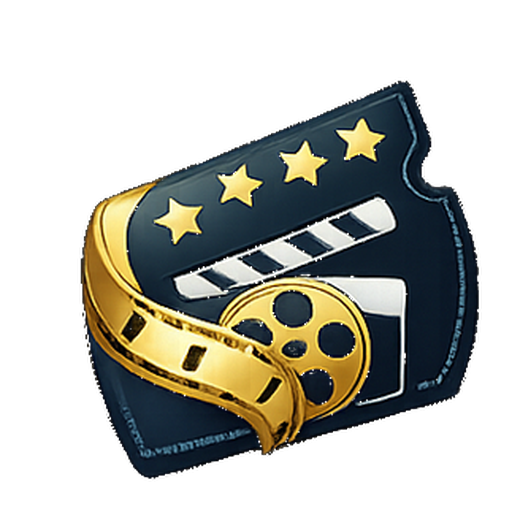
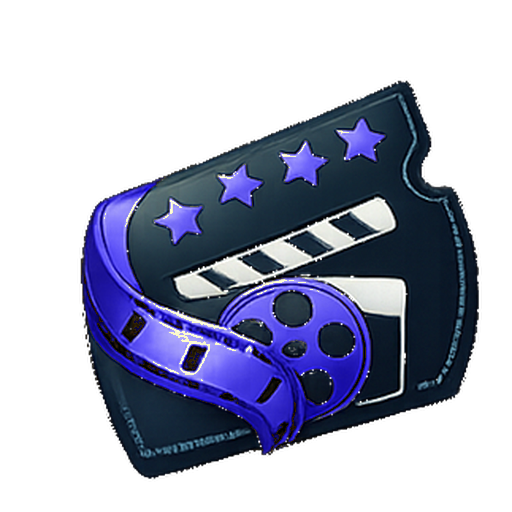
Finalized css styling

diff --git a/public/css/style.css b/public/css/style.css
@@ -1,13 +1,19 @@
-* {
+@import url("https://fonts.googleapis.com/css2?family=Inter:wght@400;500;600;700&family=Oswald:wght@500;600;700&display=swap");
+
+* {
     box-sizing: border-box;
 }
 
 body {
     margin: 0;
     min-height: 100vh;
-    font-family: cursive;
+    font-family: "Inter", cursive;
     color: rgb(243, 244, 246);
-    background-color: rgb(31, 41, 55);
+    background-color: rgb(17, 24, 39);
+}
+
+h1, h2 {
+    font-family: "Oswald", cursive;
 }
 
 /* Shared Nav Style */
@@ -17,8 +23,8 @@ body {
     align-items: center;
     justify-content: space-between;
     gap: 24px;
-    background-color: rgb(31, 41, 55);
-    border-bottom: 1px solid rgb(41, 51, 65);
+    background-color: rgb(24, 34, 50);
+    border-bottom: 1px solid rgb(45, 55, 72);
 }
 
 .site-nav-brand {
@@ -41,9 +47,11 @@ body {
 }
 
 .cine-text {
-    background: linear-gradient(90deg,
-            rgb(245, 190, 65),
-            rgb(255, 230, 150));
+    background: linear-gradient(
+        90deg,
+        rgb(79, 70, 229),
+        rgb(165, 180, 252)
+    );
     background-clip: text;
     -webkit-background-clip: text;
     color: transparent;
@@ -664,7 +672,7 @@ strong {
 .error-page h1 {
     margin: 0;
     font-size: 90px;
-    color: rgb(245, 190, 65);
+    color: rgb(150, 150, 250);
 }
 
 .error-page h2 {